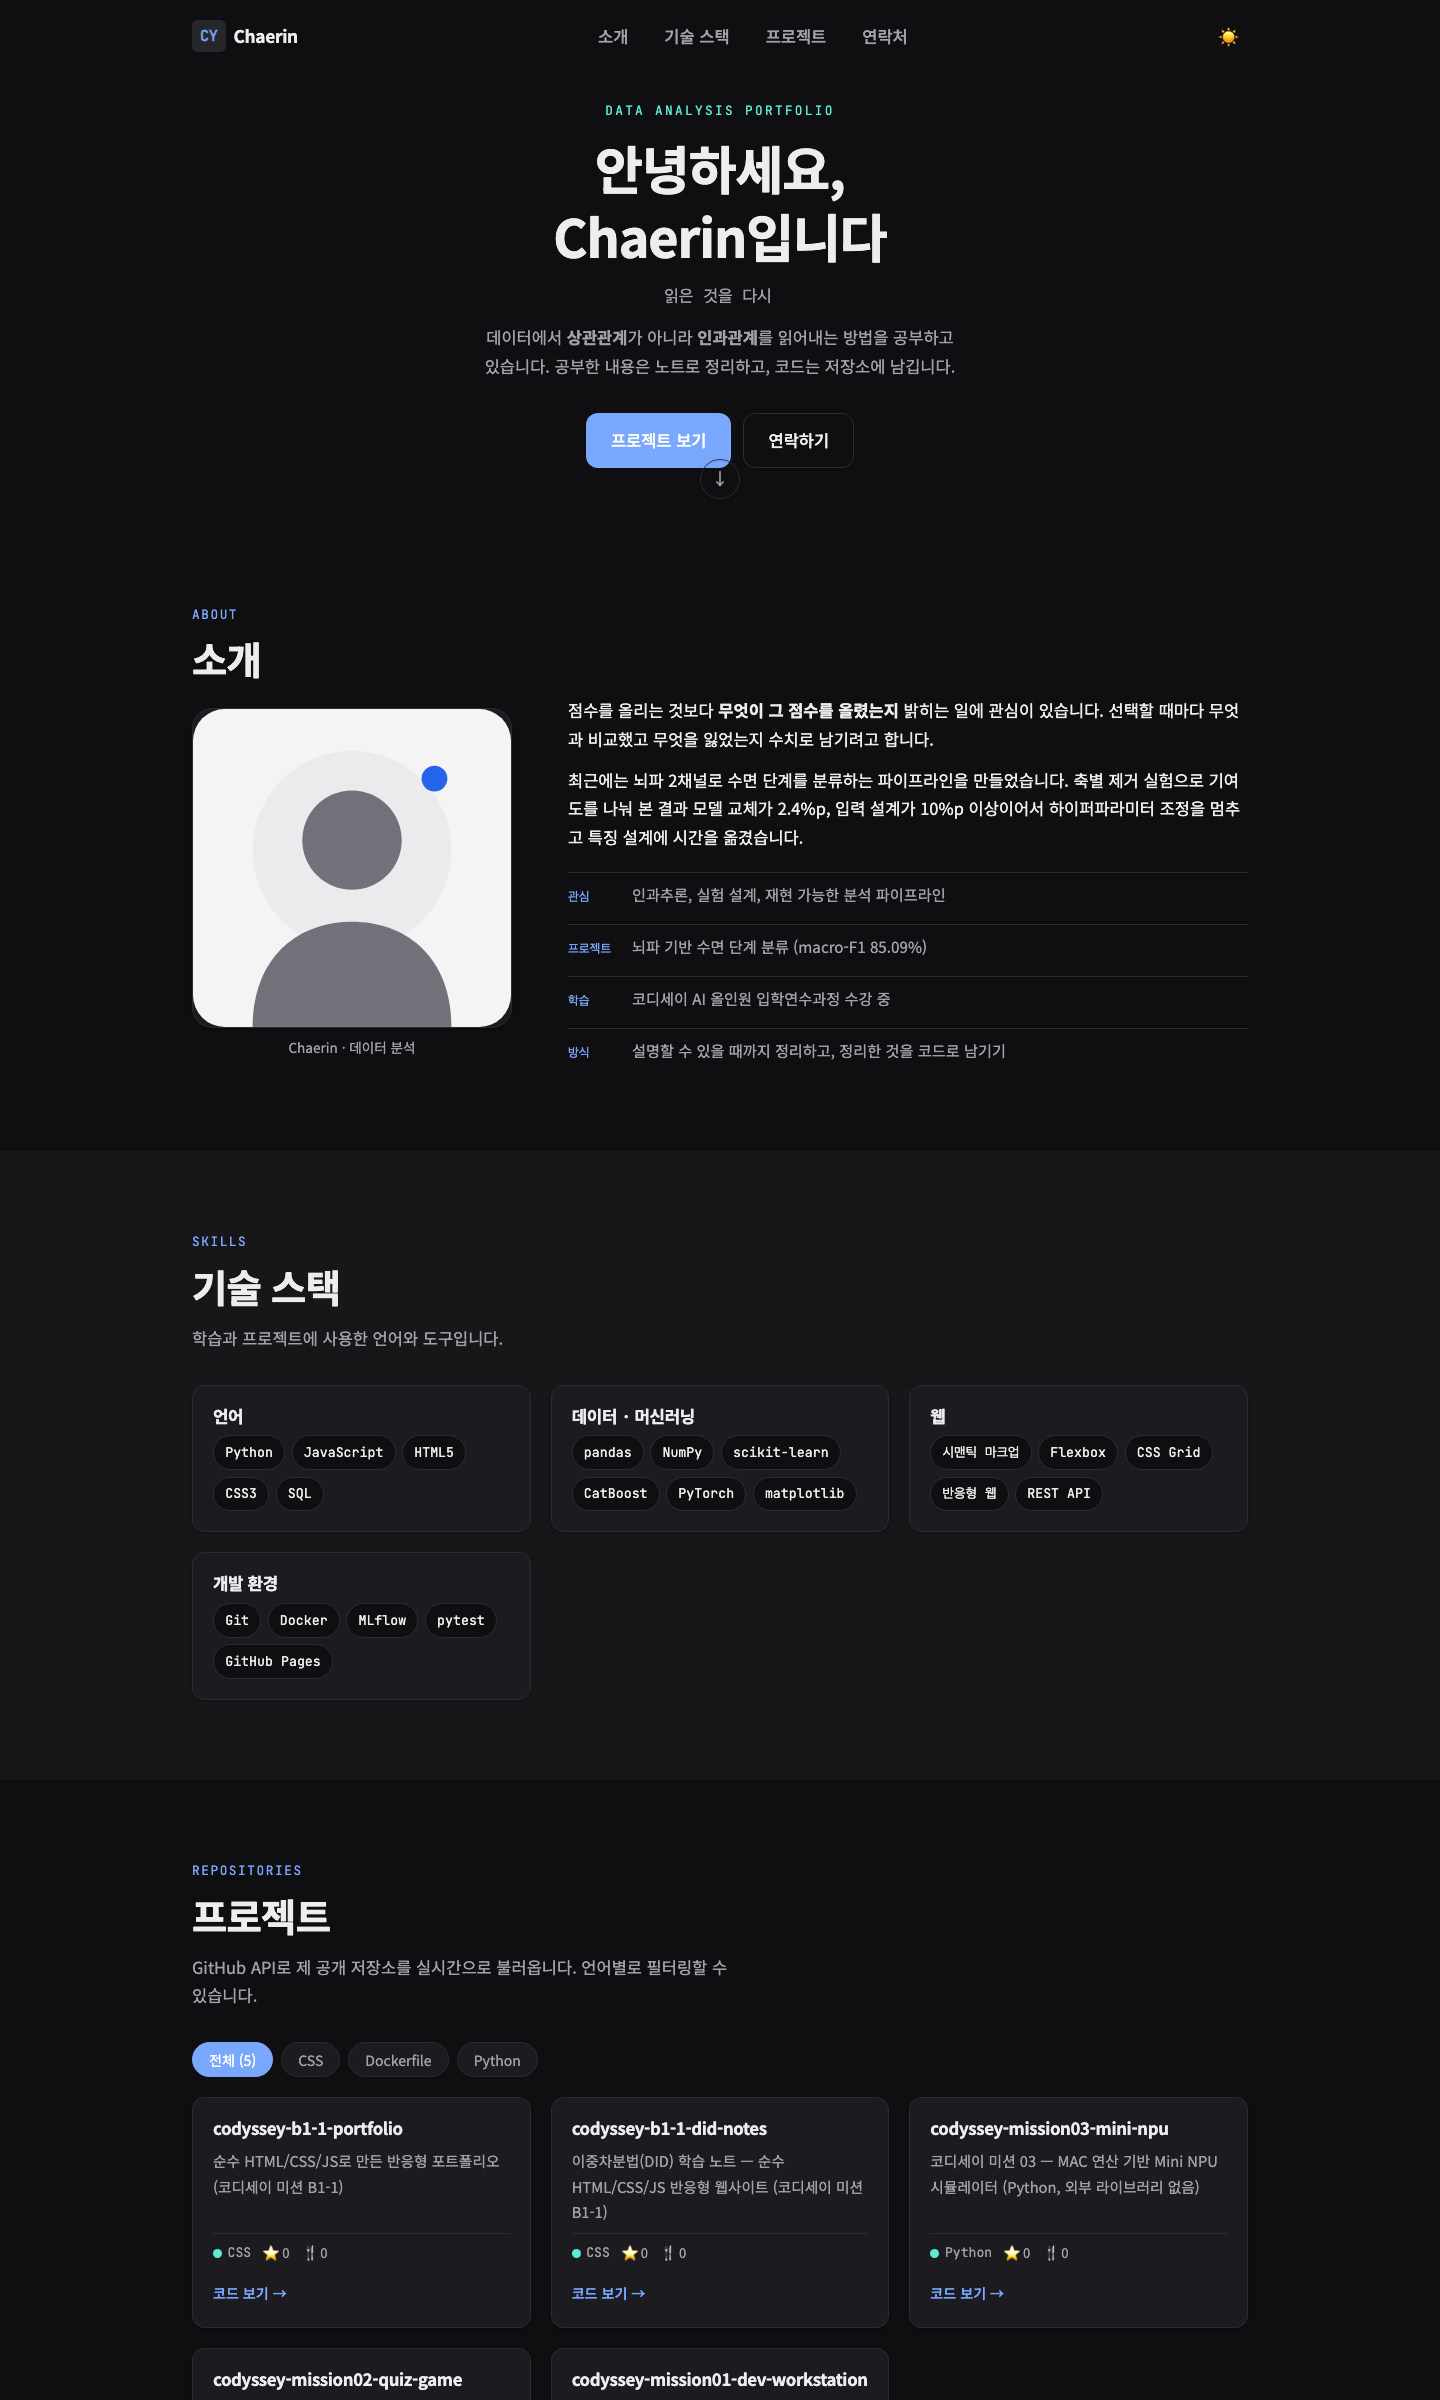
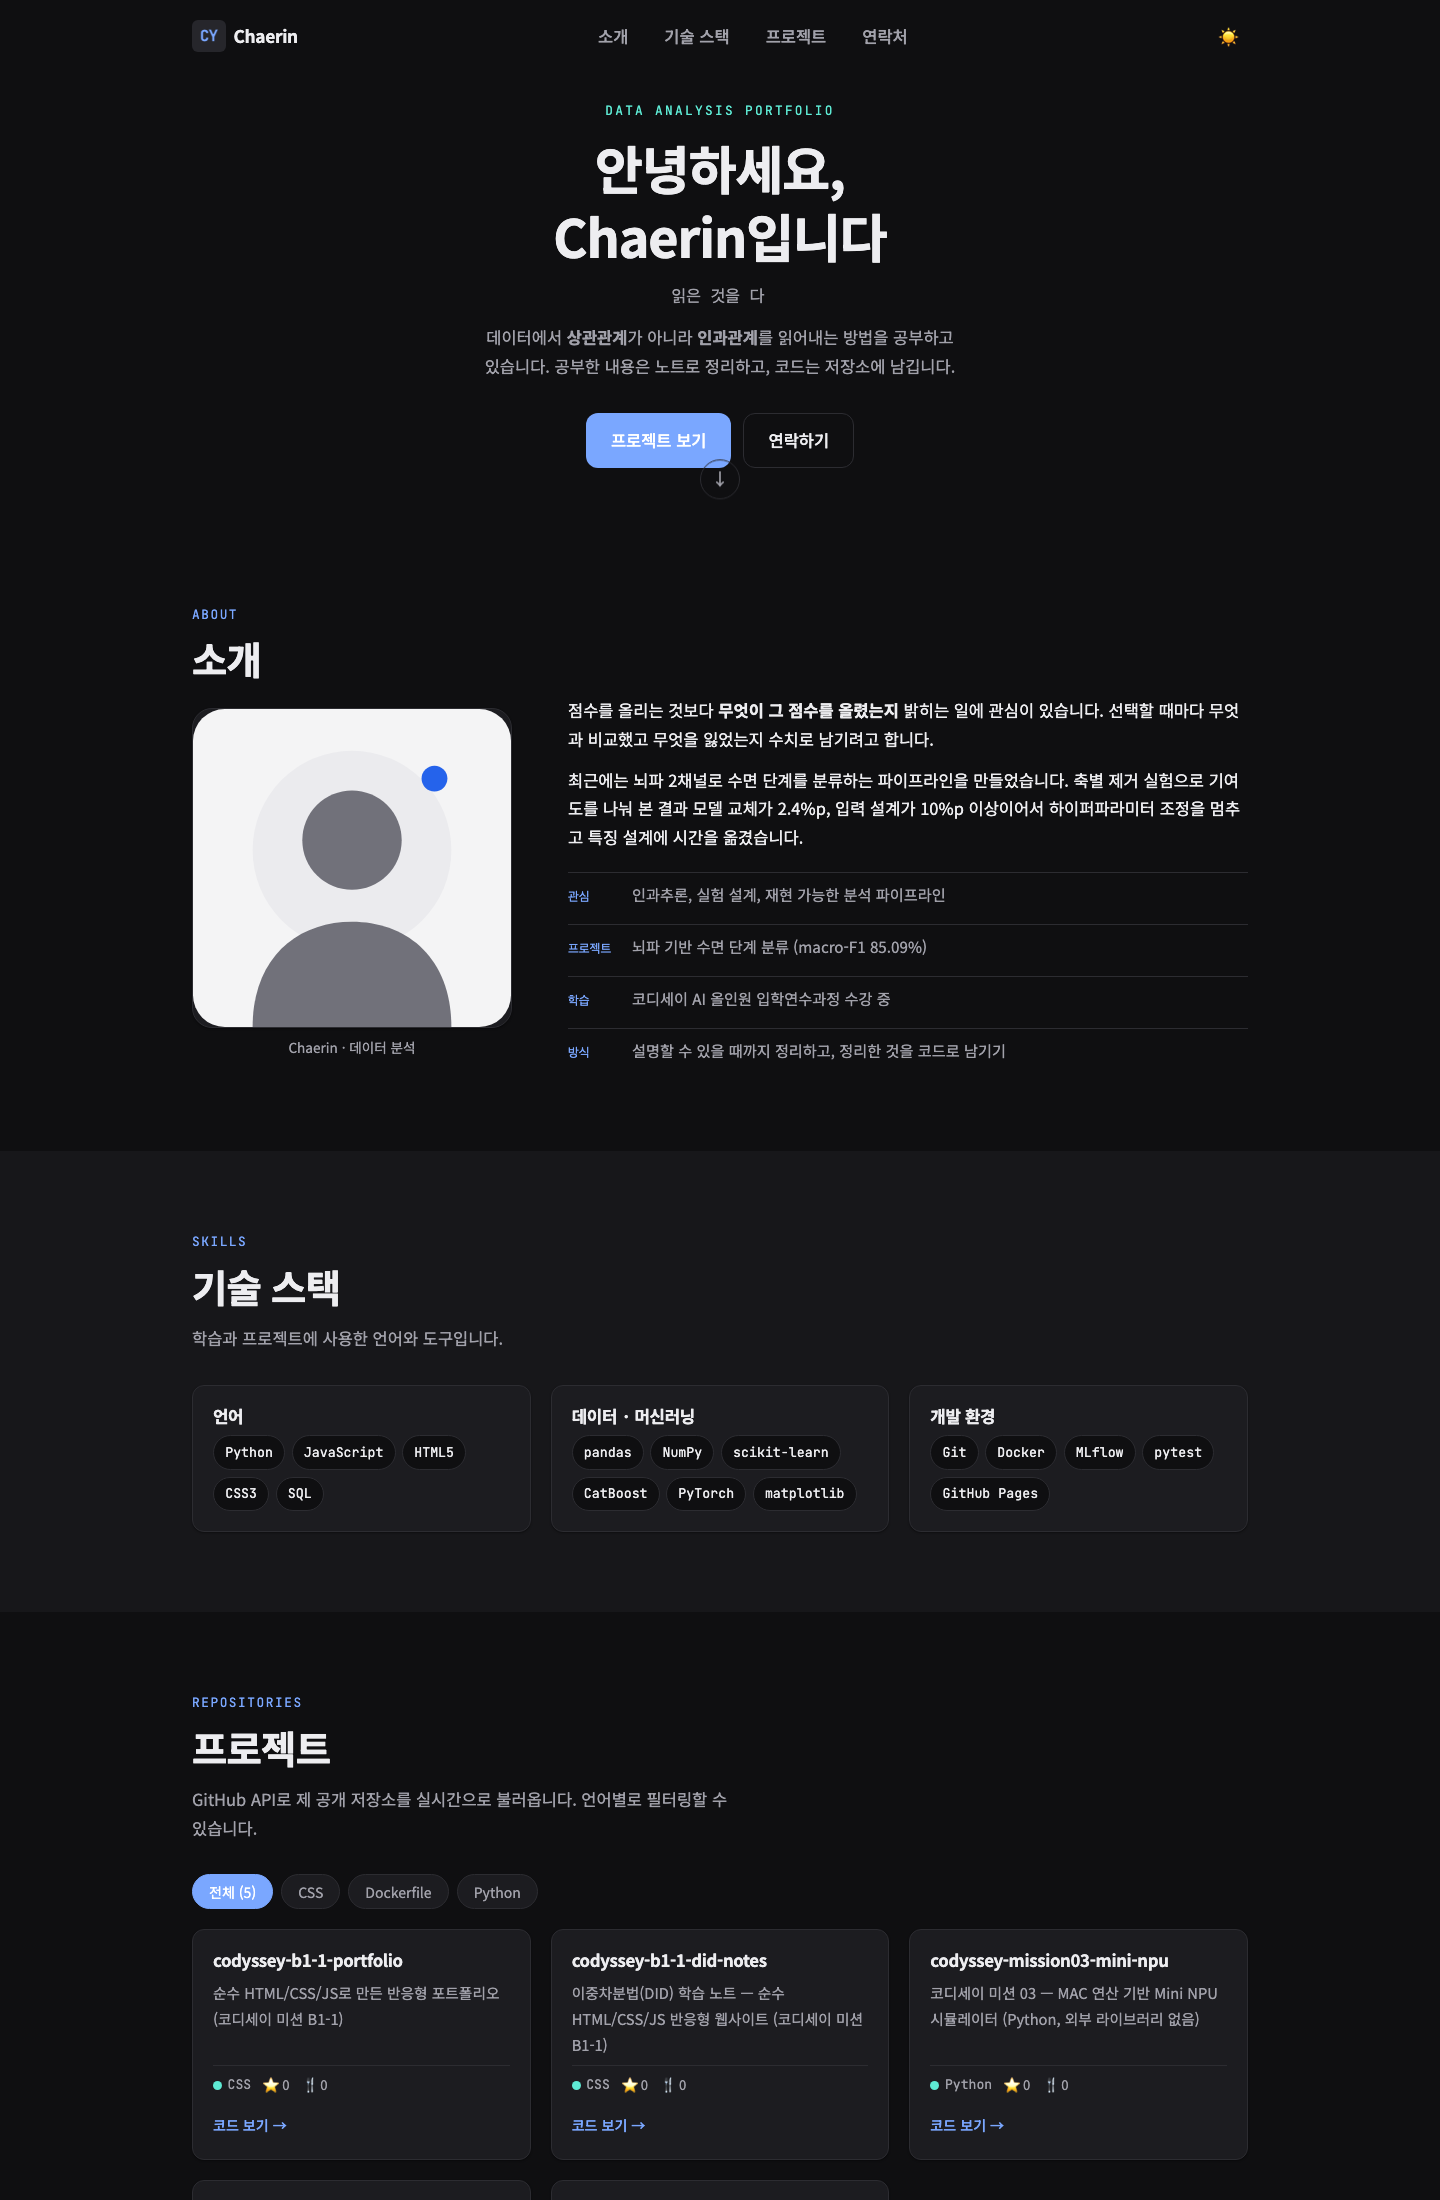
기술 스택에서 웹 카드 제거, 스크린샷 갱신
- Skills 섹션을 언어 / 데이터·머신러닝 / 개발 환경 3개로 정리
- README에서 프레임워크 미사용 문구 삭제
- 데스크톱, 다크 모드 스크린샷 재촬영

Claude-Session: https://claude.ai/code/session_01Q5r6zRjgodgBTB88rmE3AQ

diff --git a/index.html b/index.html
@@ -153,17 +153,6 @@
           </article>
 
           <article class="skill-card reveal">
-            <h3 class="skill-title">웹</h3>
-            <ul class="tool-list">
-              <li class="tool-item">시맨틱 마크업</li>
-              <li class="tool-item">Flexbox</li>
-              <li class="tool-item">CSS Grid</li>
-              <li class="tool-item">반응형 웹</li>
-              <li class="tool-item">REST API</li>
-            </ul>
-          </article>
-
-          <article class="skill-card reveal">
             <h3 class="skill-title">개발 환경</h3>
             <ul class="tool-list">
               <li class="tool-item">Git</li>
